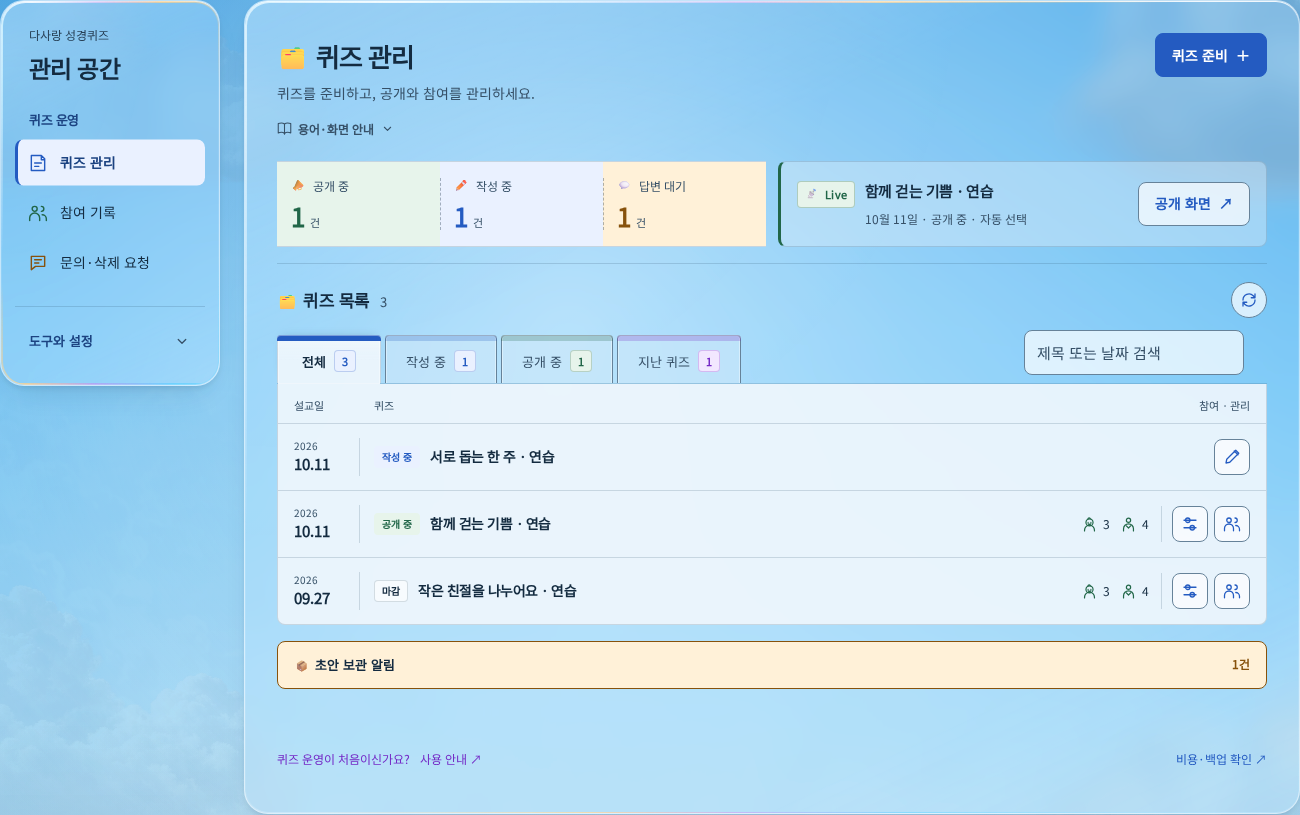
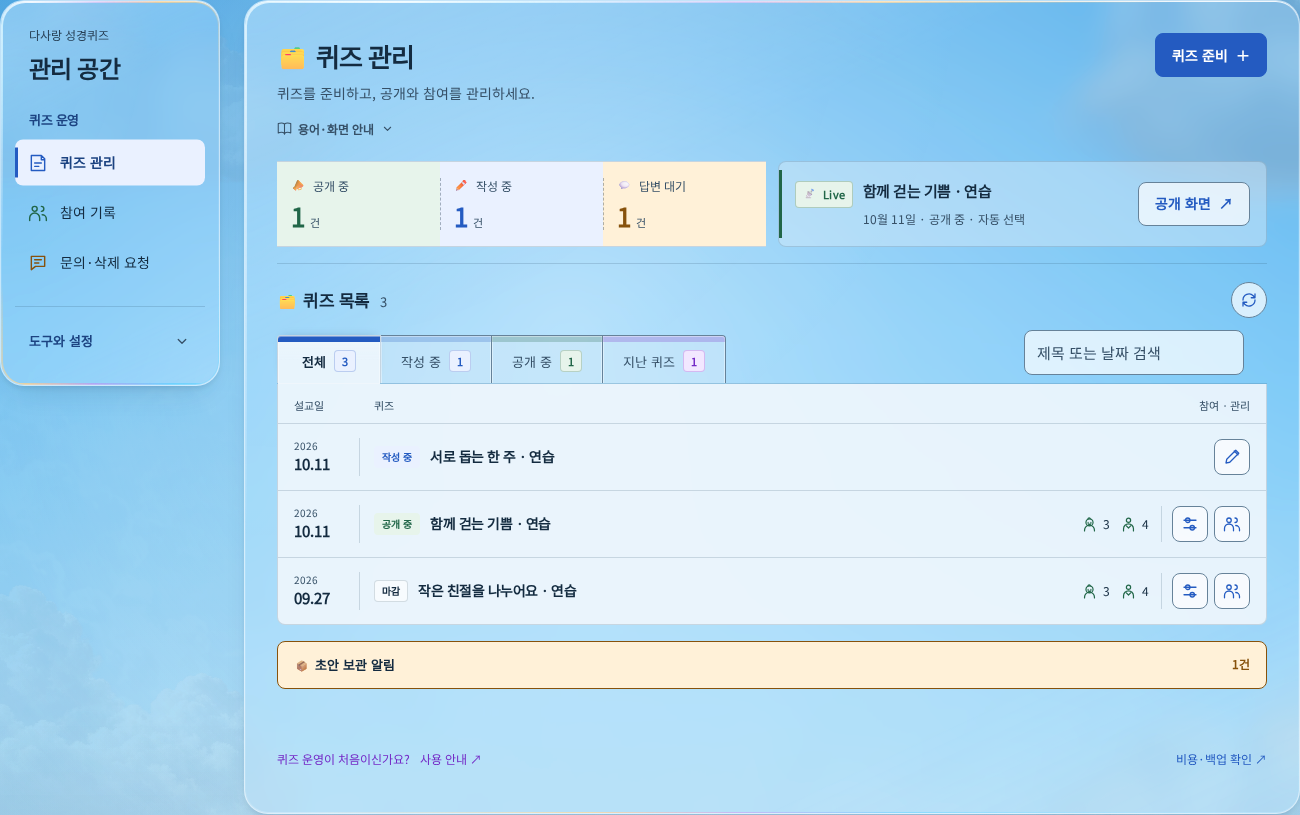
Join admin category tabs and straighten accent edges

Changed region(s): [[0.2154, 0.3988, 0.5846, 0.4601], [0.5846, 0.2147, 0.8, 0.2761]]

diff --git a/docs/design/phase-9/admin-boards/review.html b/docs/design/phase-9/admin-boards/review.html
@@ -7,13 +7,13 @@ body{margin:0;background:#eaf4fa;color:#17334a;font:15px/1.7 system-ui,sans-seri
 .themes{display:flex;gap:6px;margin:18px 0}.themes button{min-height:40px;padding:8px 14px;border:1px solid #8baabe;border-radius:5px;background:transparent;color:inherit;cursor:pointer;font:inherit}.themes button[aria-pressed=true]{background:#245ac1;color:white;border-color:#245ac1}.themes button:focus-visible{outline:3px solid #245ac1;outline-offset:3px}body[data-preview=night]{background:#152839;color:#eaf2fa}body[data-preview=night] a{color:#acc8ff}body[data-preview=night] small{color:#c0d2e6}</style>
 <main>
 <h1>관리자 실제 화면과 생성 시안</h1>
-<p>2026년 10월 14일 적용 화면입니다. 본문에 붙은 입체적인 인덱스, 점선으로 나눈 현황판, 콘텐츠 창과 투명도를 맞춘 사이드바를 적용했습니다. 실제 React UI에 연습 자료를 표시해 촬영했으며, 이미지를 누르면 원본을 크게 볼 수 있습니다.</p>
+<p>2026년 10월 14일 적용 화면입니다. 카테고리끼리 맞닿은 인덱스와 탭 안쪽의 상단 강조선을 적용했습니다. 사이드바와 Live의 왼쪽 표시는 끝까지 두께가 같은 직선입니다. 실제 React UI에 연습 자료를 표시해 촬영했으며, 이미지를 누르면 원본을 크게 볼 수 있습니다.</p>
 <nav aria-label="실제 관리자 화면"><a href="/admin">퀴즈 관리 열기</a><a href="/admin/submissions">참여 기록 열기</a><a href="/admin/privacy-requests">문의·삭제 요청 열기</a></nav>
 <div class="themes" role="group" aria-label="실제 화면 시간대"><button type="button" data-preview-time="day" aria-pressed="true">☀ 낮 화면</button><button type="button" data-preview-time="night" aria-pressed="false">☾ 밤 화면</button></div>
 <p>낮·밤 버튼으로 실제 화면을 바꿔 볼 수 있습니다. 기존 생성 시안 두 장은 낮 배경을 유지합니다.</p>
-<section><h2>퀴즈 관리</h2><p>현황과 Live의 5:5 비율과 세 가지 바탕색을 유지했습니다. 현황판은 각진 모서리·위아래 선·점선 구분을 사용합니다. 인덱스는 호버해도 본문에서 떨어지지 않으며, 넓은 상단 색 띠와 얇은 반사·그림자로 입체감을 줍니다. 왼쪽 메뉴도 콘텐츠 창과 같은 투명도로 볼 수 있습니다.</p><figure class="quiz"><figcaption>실제 화면 · 연습 자료</figcaption><a href="quiz-actual.png"><img data-screenshot-day="quiz-actual.png" data-screenshot-night="quiz-night.png" src="quiz-actual.png" alt="실제 퀴즈 관리와 투명한 사이드바: 점선 현황판과 본문에 붙은 입체 인덱스"></a></figure></section>
+<section><h2>퀴즈 관리</h2><p>현황과 Live의 5:5 비율과 세 가지 바탕색을 유지했습니다. 현황판은 각진 모서리·위아래 선·점선 구분을 사용합니다. 인덱스끼리 틈 없이 붙고, 호버해도 본문에서 떨어지지 않습니다. 탭 상단 강조선은 영역 밖으로 나오지 않으며 얇은 반사·그림자로 입체감을 줍니다. 왼쪽 메뉴도 콘텐츠 창과 같은 투명도로 볼 수 있습니다.</p><figure class="quiz"><figcaption>실제 화면 · 연습 자료</figcaption><a href="quiz-actual.png"><img data-screenshot-day="quiz-actual.png" data-screenshot-night="quiz-night.png" src="quiz-actual.png" alt="실제 퀴즈 관리와 투명한 사이드바: 직선 선택 표시와 틈 없이 맞닿은 인덱스"></a></figure></section>
 <section><h2>참여 기록</h2><p>행을 펼치면 왼쪽에는 답안과 코멘트, 오른쪽에는 처리 폼이 나타납니다. 점수와 상태를 작은 박스로 구분하고, 실제 제출값은 입력한 칸을 파랑·빈칸을 호박색으로 표시합니다.</p><div class="compare"><figure><figcaption>실제 화면 · 연습 자료</figcaption><a href="submissions-actual.png"><img data-screenshot-day="submissions-actual.png" data-screenshot-night="submissions-night.png" src="submissions-actual.png" alt="실제 참여 기록: 한 행을 펼친 답안과 관리 폼, 나머지 짧은 행"></a></figure><figure><figcaption>기존 생성 시안 · 배치 참고</figcaption><a href="submissions-reference.png"><img src="submissions-reference.png" alt="참여 기록의 기존 생성 시안"></a></figure></div></section>
-<section><h2>문의·삭제 요청</h2><p>카테고리와 목록이 시안처럼 같은 바탕으로 이어집니다. 접힌 행에는 이름·분류·상태·날짜와 한 줄 미리보기가 보입니다. 펼치면 전체 원문과 상태·답변 폼을 확인할 수 있습니다.</p><div class="compare"><figure><figcaption>실제 화면 · 연습 자료</figcaption><a href="inquiries-actual.png"><img data-screenshot-day="inquiries-actual.png" data-screenshot-night="inquiries-night.png" src="inquiries-actual.png" alt="실제 문의 게시판: 펼친 요청의 상태 선택과 답변 입력, 접힌 나머지 요청"></a></figure><figure><figcaption>기존 생성 시안 · 배치 참고</figcaption><a href="inquiries-reference.png"><img src="inquiries-reference.png" alt="문의 게시판의 기존 생성 시안"></a></figure></div></section>
+<section><h2>문의·삭제 요청</h2><p>카테고리끼리 틈 없이 맞닿고, 선택한 카테고리와 목록이 같은 바탕으로 이어집니다. 접힌 행에는 이름·분류·상태·날짜와 한 줄 미리보기가 보입니다. 펼치면 전체 원문과 상태·답변 폼을 확인할 수 있습니다.</p><div class="compare"><figure><figcaption>실제 화면 · 연습 자료</figcaption><a href="inquiries-actual.png"><img data-screenshot-day="inquiries-actual.png" data-screenshot-night="inquiries-night.png" src="inquiries-actual.png" alt="실제 문의 게시판: 펼친 요청의 상태 선택과 답변 입력, 접힌 나머지 요청"></a></figure><figure><figcaption>기존 생성 시안 · 배치 참고</figcaption><a href="inquiries-reference.png"><img src="inquiries-reference.png" alt="문의 게시판의 기존 생성 시안"></a></figure></div></section>
 <small>기존 생성 이미지는 재사용했습니다. 실제 화면 이미지에는 개인 자료나 실제 운영 답안을 포함하지 않았습니다.</small>
 </main>
 <script>

diff --git a/src/components/admin-list-tools.module.css b/src/components/admin-list-tools.module.css
@@ -2,9 +2,15 @@
 .toolbar { display: flex; flex-wrap: wrap; align-items: end; justify-content: space-between; gap: 8px 16px; border-bottom: 1px solid var(--admin-board-border,var(--line)); min-width: 0; }
 .indexedPanel { min-width: 0; border: 1px solid var(--admin-board-border,var(--line)); border-top: 0; border-radius: 0 0 8px 8px; background: var(--admin-board-surface,var(--glass-solid)); overflow: clip; }
 .indexedPanel > p { margin: 0; padding: 16px; }
-.filters { display: flex; flex-wrap: wrap; align-items: end; gap: 4px; padding-top: 4px; }
-.filters button { position: relative; display: inline-flex; align-items: center; justify-content: center; gap: 8px; min-width: 104px; min-height: 48px; padding: 12px 20px 9px; border: 1px solid var(--control-border); border-bottom: 0; border-radius: 4px 4px 0 0; background: var(--glass-soft); color: var(--muted); font-size: 13px; line-height: 1.5; box-shadow: inset 1px 0 0 var(--index-edge-light), inset -1px 0 0 var(--index-edge-light); transition: background-color .18s ease, box-shadow .18s ease; }
-.filters button::before { content: ''; position: absolute; inset: -1px -1px auto; height: 6px; border-radius: 4px 4px 0 0; background: color-mix(in srgb,var(--admin-tone) 24%,transparent); box-shadow: inset 0 1px 0 var(--index-edge-light); transition: background-color .18s ease; }
+.filters { display: flex; flex-wrap: wrap; align-items: end; gap: 0; padding-top: 4px; }
+.filters button { position: relative; display: inline-flex; align-items: center; justify-content: center; gap: 8px; min-width: 104px; min-height: 48px; padding: 12px 20px 9px; border: 1px solid var(--control-border); border-bottom: 0; border-radius: 0; background: var(--glass-soft); color: var(--muted); font-size: 13px; line-height: 1.5; box-shadow: inset 1px 0 0 var(--index-edge-light), inset -1px 0 0 var(--index-edge-light); transition: background-color .18s ease, box-shadow .18s ease; }
+/* Adjacent folders share one divider; only the outer ends have rounded corners. */
+.filters button + button { border-left: 0; }
+.filters button:first-child { border-top-left-radius: 4px; }
+.filters button:last-child { border-top-right-radius: 4px; }
+.filters button::before { content: ''; position: absolute; inset: 0 0 auto; height: 6px; background: color-mix(in srgb,var(--admin-tone) 24%,transparent); box-shadow: inset 0 1px 0 var(--index-edge-light); transition: background-color .18s ease; }
+.filters button:first-child::before { border-top-left-radius: 3px; }
+.filters button:last-child::before { border-top-right-radius: 3px; }
 .filters button[aria-pressed=true] { z-index: 1; background-color: var(--admin-board-surface,var(--glass-solid)); background-image: linear-gradient(to bottom,color-mix(in srgb,var(--glass-highlight) 35%,transparent),transparent 24px); color: var(--ink); font-weight: 600; border-color: var(--admin-board-border,var(--line)); box-shadow: inset 1px 0 0 var(--index-edge-light), inset -1px 0 0 var(--index-edge-light), 0 -4px 9px -6px var(--glass-shadow); }
 .filters button[aria-pressed=true]::before { background: var(--admin-tone); }
 /* Cover only the shared baseline, leaving the selected folder open into its contents. */
@@ -19,7 +25,7 @@
 .iconControl svg { display: block; width: 18px; height: 18px; flex: 0 0 18px; }
 @media (pointer: coarse) { :global(.sky-app:not(.home-shell) .admin-main) .iconControl:global(.action-button) { --admin-icon-size: 44px; } }
 @media (max-width: 1200px) { .controls:has(input) { width: 100%; order: -1; } }
-@media (max-width: 600px) { .toolbar { gap: 8px; } .filters { gap: 3px; } .filters button { min-width: 0; padding-inline: 7px; gap: 4px; font-size: 12px; } .filters span { min-width: 20px; min-height: 20px; padding-inline: 4px; } }
+@media (max-width: 600px) { .toolbar { gap: 8px; } .filters button { min-width: 0; padding-inline: 7px; gap: 4px; font-size: 12px; } .filters span { min-width: 20px; min-height: 20px; padding-inline: 4px; } }
 @media (prefers-reduced-motion: reduce) { .filters button, .filters button::before { transition: none; } }
 @media (forced-colors: active) { .filters button[aria-pressed=true] { border-color: Highlight; color: Highlight; } .filters button[aria-pressed=true]::before { background: Highlight; } }
 

diff --git a/src/features/admin-weekly/dashboard.module.css b/src/features/admin-weekly/dashboard.module.css
@@ -9,7 +9,8 @@
 .metricValue { display: inline-flex; align-items: baseline; gap: 5px; line-height: 1.2; color: var(--admin-tone); }
 .metricValue strong { font-size: 26px; font-weight: 600; font-variant-numeric: tabular-nums; }
 .metricValue small { color: var(--muted); font-size: 11px; }
-.featured { display: flex; min-width: 0; align-items: center; gap: 12px; padding: 12px 16px; border: 1px solid var(--line); border-left: 3px solid var(--ui-success); border-radius: 8px; background: var(--glass-soft); }
+.featured { position: relative; display: flex; min-width: 0; align-items: center; gap: 12px; padding: 12px 16px; border: 1px solid var(--line); border-radius: 8px; background: var(--glass-soft); }
+.featured::before { content: ''; position: absolute; inset: 8px auto 8px 0; border-left: 3px solid var(--ui-success); pointer-events: none; }
 .featuredCopy { flex: 1; display: grid; grid-template-columns: auto minmax(0,1fr); align-items: baseline; column-gap: 10px; min-width: 0; }
 .caption { display: inline-flex; justify-self: start; align-items: center; gap: 3px; padding: 3px 7px; border: 1px solid color-mix(in srgb,var(--ui-success) 28%,transparent); border-radius: 4px; color: var(--ui-success); background: var(--ui-success-bg); font-size: 11px; font-weight: 700; letter-spacing: .02em; }
 :global(.sky-app:not(.home-shell) .admin-main) .featured h3 { margin: 0; font-family: 'Noto Sans KR',sans-serif; font-size: 15px; font-weight: 600; line-height: 1.7; overflow-wrap: anywhere; }

diff --git a/src/features/admin-weekly/admin-navigation.module.css b/src/features/admin-weekly/admin-navigation.module.css
@@ -13,7 +13,9 @@
 .nav svg { width: 20px; height: 20px; flex: 0 0 20px; }
 /* A flat selection shape follows the pointer or keyboard focus without a glass lens. */
 .menu nav { position: relative; isolation: isolate; }
-.highlight { position: absolute; top: 0; left: 0; pointer-events: none; z-index: -1; border-radius: 8px; background: var(--ui-action-bg); border-left: 3px solid var(--ui-action); transition: transform .2s ease-out, width .2s ease-out, height .2s ease-out; }
+.highlight { position: absolute; top: 0; left: 0; pointer-events: none; z-index: -1; border-radius: 8px; background: var(--ui-action-bg); transition: transform .2s ease-out, width .2s ease-out, height .2s ease-out; }
+/* Keep the accent straight and constant-width, independent of the rounded background. */
+.highlight::before { content: ''; position: absolute; inset: 8px auto 8px 0; border-left: 3px solid var(--ui-action); }
 .nav a { position: relative; }
 .sidebar .nav a[aria-current=page] { color: var(--nav-action-ink); font-weight: 700; }
 .nav a:is(:hover,:focus-visible) { color: var(--nav-action-ink); }
@@ -42,5 +44,6 @@
  .sidebar:global(.glass) { background: Canvas; color: CanvasText; }
  .sidebar .nav a[aria-current=page] { color: Highlight; background: Canvas; outline: 2px solid Highlight; outline-offset: -2px; }
  .highlight { background: Canvas; border: 2px solid Highlight; }
+ .highlight::before { display: none; }
  .sidebar .groupTitle, .settings > summary { color: CanvasText; }
 }

diff --git a/tests/e2e/admin-glass.spec.ts b/tests/e2e/admin-glass.spec.ts
@@ -62,7 +62,11 @@ test("admin menus group tasks, use a flat moving highlight and use compact share
     await target.hover();
     await expect(current).toHaveAttribute("aria-current", "page");
     await expect(navigation.locator('.glass-indicator, [data-glass-convex]')).toHaveCount(0);
-    await expect(highlight).toHaveCSS("border-left-width", "3px");
+    const accent = await highlight.evaluate(node => {
+      const style = getComputedStyle(node, "::before");
+      return { width: style.borderLeftWidth, radius: style.borderRadius };
+    });
+    expect(accent).toEqual({ width: "3px", radius: "0px" });
     await expect.poll(async () => {
       const a = await target.boundingBox(), b = await highlight.boundingBox();
       return a && b ? Math.abs(a.y - b.y) : 999;

diff --git a/docs/HANDOFF.md b/docs/HANDOFF.md
@@ -2,18 +2,18 @@
 
 ## 현재 작업과 Git
 
-**P9-23 붙어 있는 입체 인덱스·점선 현황·투명 사이드바 — 로컬 완료.** `/home/onegem/work/bibleQuiz`, main `063a310` / clean에서 재개했다. 이번 커밋 제목은 `Keep admin indexes attached and refine transparent surfaces`다. 정확한 해시와 작업 폴더는 `git log -1`·`git status --short`로 확인한다. 후속 보정은 같은 P9-23에서 처리한다.
+**P9-23 맞닿은 인덱스·직선 강조선 — 로컬 완료.** `/home/onegem/work/bibleQuiz`, main `59529fb` / clean에서 재개했다. 이번 커밋 제목은 `Join admin category tabs and straighten accent edges`다. 정확한 해시와 작업 폴더는 `git log -1`·`git status --short`로 확인한다. 후속 보정은 같은 P9-23에서 처리한다.
 
 ## 변경과 검사
 
-- `admin-list-tools.module.css`: 탭의 위치 이동을 모두 없애고6px 상단 색 띠·넓은 PC 탭·얇은 반사/그림자를 적용했다. 검색은1200px 이하에서 탭 위에 배치한다. 모바일 한 줄 탭과 키보드 전환을 유지한다.
-- `dashboard.module.css`: 현황은 직각·위아래 선만 사용하며 가운데는 위아래 여백이 있는 점선이다.5:5·세 의미색·전체 호버는 유지한다.
-- `admin-navigation.module.css`: 사이드바를 콘텐츠 창과 같은 맑은 유리로 바꾸고 작은 글자 대비를 보완했다. 기존 메뉴·아이콘 역할색·선택 받침·모바일 접기를 유지한다.
-- 관련 E2E14건 최초13통과·1실패. 모바일 호버 시 자동 스크롤을 이동으로 오인한 검사만 상대 간격 기준으로 수정했으며 해당 PC/모바일2건 통과. 최종 lint/typecheck·합성 캡처1건 통과. 실제 네 시간대·1440/390/320px36상태, 현황12개 호버·중간 폭6종·감소/강제 색상4상태를 확인했다. 반사/글자 최종 보정 후84개 탭 호버·12개 사이드바 상태에서도 연결/넘침/오류/쓰기 문제0. 작은 메뉴 글자 표본 대비 최저4.68:1이며 전체 앱 인증과 구별한다.
-- 퀴즈/문의 비교용 낮/밤4장과 설명용2장이 변경됐다. 퀴즈 비교 화면에는 사이드바까지 포함한다. 참여/나머지 설명 자산·기존 생성 시안은 보존한다. PNG8종 HTTP200/디코딩·확대 링크·낮/밤 전환·320px 검사를 사용자 기기 표시와 구별한다.
-- [현재 기록](work/P9-23.md#붙어-있는-입체-인덱스점선-현황투명-사이드바), ignored `.wrangler/releases/p9-23/attached-tabs-*`. 최종 관련 파일·DESIGN/명세/결정/상태/자산 문서를 검토해 로컬 커밋한다. 이번에는 build/전체check/전체E2E·Firefox/Safari·실기기/화면 읽기 프로그램을 반복하지 않았다.
+- `admin-list-tools.module.css`: PC/모바일 탭 간격을0으로 바꾸고 중간 굴곡·중복 테두리를 없앴다. 양 끝만4px 모서리를 사용한다. ‘탭 상단 강조선’은 음수 위치 없이 안쪽에6px 높이로 채운다. 퀴즈·문의는 같은 공통 컴포넌트를 사용한다.
+- `admin-navigation.module.css`·`dashboard.module.css`: 둥근 배경과 왼쪽 색상 선을 분리했다. 위아래8px를 비운3px 직선이며 끝까지 두께가 같다. 앞으로 둥근 모서리를 따라 가늘어지는 한쪽 강조선을 쓰지 않는 디자인 규칙을 반영했다.
+- 기존 투명도·네 시간대 의미색·현황/Live5:5·점선·선택 받침 이동·모바일/키보드·검색/필터·입력 보존은 유지한다.
+- 관련 E2E14건(Chromium PC/모바일)·lint/typecheck·합성 캡처1건 모두 첫 실행에 통과했다. 실제5173의 네 시간대·1440/390/320px24상태,84개 탭 호버/키보드 선택, 사이드바/Live12상태와 투명도 감소/강제 색상6상태에서 틈·돌출·넘침·페이지 오류·API 쓰기0을 확인했다.
+- 실제 비교용 퀴즈/문의 낮·밤4장과 설명용 dashboard/privacy2장이 바뀌었다. 참여·나머지 설명 자산·기존 생성 시안은 보존한다. PNG8종 HTTP200/디코딩·확대 링크·낮/밤 전환·320px 확인과 사용자 기기 표시 확인을 구별한다.
+- [현재 기록](work/P9-23.md#맞닿은-인덱스와-일정한-두께의-강조선), ignored `.wrangler/releases/p9-23/flush-tabs-*`. 이번 작은 CSS 후속에서는 build/전체check/전체E2E·Firefox/Safari·실기기/화면 읽기 프로그램을 반복하지 않았다. 최종 문서 링크·diff·실제 파일 상태를 확인해 로컬 커밋한다.
 
-폐기한 접근: 본문과 분리되는 호버 이동, 밤의 과한 이중 반사, 투명도만 바꿔 작은 글자 대비를 떨어뜨리기. 기존 자료·필터/검색·접기/입력·매뉴얼·공통 버튼은 보존한다.
+폐기한 접근: 탭 사이 여백·중간 굴곡, 상단 강조선의 음수 위치, 둥근 배경 테두리에만 굵은 왼쪽 선을 입히기. 기존 기능·자료와 작업 번호를 보존한다.
 
 ## 실행과 다음 첫 작업
 
@@ -24,9 +24,9 @@
 
 5173과 기존 `.wrangler/ui-demo-state` 자료를 유지했다. 꺼지면 루트에서 `pnpm dev:demo --port 5173 --strictPort`. Node24.18.0/pnpm11.14.0. pnpm이 PATH에 없으면 `/home/onegem/.nvm/versions/node/v24.18.0/bin`을 현재 PATH에만 추가한다. E2E는 별도4173 격리 서버이며 동시에 실행하지 않는다. [촬영 재현](design/phase-9/admin-guide/README.md).
 
-도구는 검증된 `/bin/bash`, `login:false`, 명시 workdir, `require_escalated` 승인 검토 경로를 쓴다. 시작 전 ENOENT를 WSL 단절로 판단하거나 승인 거부를 우회하지 않는다. 이미지는 확인된HTTP/첨부로 보여주며 WSL 경로 Markdown만 보내지 않는다.
+도구는 검증된 `/bin/bash`, `login:false`, 명시 workdir, `require_escalated` 승인 검토 경로를 쓴다. 시작 전 ENOENT를 WSL 단절로 판단하거나 승인 거부를 우회하지 않는다. 이미지는 확인된HTTP/첨부로 보여주며 WSL 경로 Markdown만 보내지 않는다. Python 기본 환경에 Pillow가 없으므로 이미지 검사에 브라우저/기존 도구를 사용하고 새 의존성은 설치하지 않는다.
 
-시작 Pro 잔여81% × 사용자 지정10 =810%, 별도5시간 창 없음. 다음 구현 전 사용량을 확인한다. 읽기 순서: AGENTS → PROJECT_CONTEXT → DECISIONS → STATUS → HANDOFF → implementation 관련 명세 → P9-23 → Git 상태/diff/log.
+시작 Pro 잔여80% × 사용자 지정10 =800%, 별도5시간 창 없음. 다음 구현 전 사용량을 확인한다. 읽기 순서: AGENTS → PROJECT_CONTEXT → DECISIONS → STATUS → HANDOFF → implementation 관련 명세 → P9-23 → Git 상태/diff/log.
 
 push/배포·실제 자료 쓰기·AI 호출·새 의존성은 없다. Preview는 P9-14 소스 `0fbde84` / version `cd6efb0e-2c05-4401-b0bf-692bdf18c5b1`, Production은 P9-04 소스 `37b7254` / version `7aea6843-5288-42da-9bef-bc673e1d9dfe` 그대로다.
 

diff --git a/docs/design/phase-9/admin-boards/README.md b/docs/design/phase-9/admin-boards/README.md
@@ -10,20 +10,20 @@ HTTP 확인 주소: `http://localhost:5173/docs/design/phase-9/admin-boards/subm
 
 2026-10-14 사용자 재현 요청에 따라 실제 `/admin`, `/admin/submissions`, `/admin/privacy-requests`를 다시 적용했다. 기존에는 본문과 도구 버튼이 항상 보였으나 이제 시안처럼 짧은 행 전체를 펼친다. 참여는 답안/관리, 문의는 상태/답변을 좌우로 배치하고 모바일에서는 위아래로 놓는다. 문의의 관련 퀴즈 링크는 행 클릭과 겹치지 않도록 펼친 본문에 둔다.
 
-시안의 개별 행 틈은 사용자의 연속 게시판 요청에 따라 없앴다. 가상 정오답 색·인물 사진은 만들지 않았고 실제 답안 좌표/입력값과 기존 선 아이콘을 쓴다. 하늘·투명 표면·다섯 의미 색상은 유지한다. 바깥 창은 맑은 유리, 핵심 현황·목록·펼친 내용은 선명한 바탕으로 구분했다. 퀴즈 현황과 Live는 넓은 화면에서5:5다. 세 현황 칸은 초록·파랑·노랑 바탕과 직각 모서리·위아래 선·가운데 점선을 사용하며, Live는 별도 유리 영역으로 구분한다. 퀴즈·문의 인덱스는 호버 때도 본문에 붙어 있고 넓은 상단 색 띠·얇은 반사·그림자를 쓴다. 사이드바도 콘텐츠 창과 같은 투명도를 사용하며 퀴즈 실제 촬영본에 함께 포함한다. 밤 목록은 회청색으로 구분하며 색상 인덱스·작은 점수/입력 여부 박스를 적용했다.66px 퀴즈 행과 모바일 자연 배치를 유지한다.
+시안의 개별 행 틈은 사용자의 연속 게시판 요청에 따라 없앴다. 가상 정오답 색·인물 사진은 만들지 않았고 실제 답안 좌표/입력값과 기존 선 아이콘을 쓴다. 하늘·투명 표면·다섯 의미 색상은 유지한다. 바깥 창은 맑은 유리, 핵심 현황·목록·펼친 내용은 선명한 바탕으로 구분했다. 퀴즈 현황과 Live는 넓은 화면에서5:5다. 세 현황 칸은 초록·파랑·노랑 바탕과 직각 모서리·위아래 선·가운데 점선을 사용하며, Live는 별도 유리 영역으로 구분한다. 퀴즈·문의 인덱스는 호버 때도 본문에 붙어 있고 탭끼리 간격 없이 맞붙고 테두리 안쪽의6px 상단 강조선·얇은 반사·그림자를 쓴다. 사이드바 선택 받침과 Live의 왼쪽 선은 둥근 테두리와 분리한 일정 두께의 직선이다. 사이드바도 콘텐츠 창과 같은 투명도를 사용하며 퀴즈 실제 촬영본에 함께 포함한다. 밤 목록은 회청색으로 구분하며 색상 인덱스·작은 점수/입력 여부 박스를 적용했다.66px 퀴즈 행과 모바일 자연 배치를 유지한다.
 
-적용 진입점은 `AdminBoardHeader`/`AdminListTools`·`AdminRecord`다. 수치·동작은 [디자인 정본](../../../spec/design.md#p9-23-후속--시안에-맞춘-세-게시판), 실제 검사는 [작업 기록](../../../work/P9-23.md#붙어-있는-입체-인덱스점선-현황투명-사이드바)을 따른다.
+적용 진입점은 `AdminBoardHeader`/`AdminListTools`·`AdminRecord`다. 수치·동작은 [디자인 정본](../../../spec/design.md#p9-23-후속--시안에-맞춘-세-게시판), 실제 검사는 [작업 기록](../../../work/P9-23.md#맞닿은-인덱스와-일정한-두께의-강조선)을 따른다.
 
 | 실제 UI 촬영본 | 해상도 | bytes |
 |---|---|---|
-| quiz-actual.png | 1300×815 | 389,371 |
-| quiz-night.png | 1300×815 | 278,421 |
+| quiz-actual.png | 1300×815 | 388,899 |
+| quiz-night.png | 1300×815 | 277,921 |
 | submissions-actual.png | 1056×1118 | 268,345 |
 | submissions-night.png | 1056×1118 | 214,202 |
-| inquiries-actual.png | 1056×919 | 211,057 |
-| inquiries-night.png | 1056×919 | 166,032 |
+| inquiries-actual.png | 1056×919 | 210,701 |
+| inquiries-night.png | 1056×919 | 165,833 |
 
-실제 React UI에 합성 GET 자료만 넣어 촬영했으며 공개 가능한 연습 자산이다. 재현 명령은 [화면 예시 자산](../admin-guide/README.md)을 따른다. 기존 실제5173 자료를 촬영한 내부 검수 증거는 ignored `.wrangler/releases/p9-23/attached-tabs-*`에 별도 보관하며 정적 자산으로 복사하지 않았다.
+실제 React UI에 합성 GET 자료만 넣어 촬영했으며 공개 가능한 연습 자산이다. 재현 명령은 [화면 예시 자산](../admin-guide/README.md)을 따른다. 기존 실제5173 자료를 촬영한 내부 검수 증거는 ignored `.wrangler/releases/p9-23/flush-tabs-*`에 별도 보관하며 정적 자산으로 복사하지 않았다.
 
 생성 원본은 Windows Codex generated_images의 현재 대화 폴더에 그대로 남겼다. 이 경로에는 배포된 AI 결과나 실제 참여자 자료가 들어 있지 않다.
 

diff --git a/docs/work/P9-23.md b/docs/work/P9-23.md
@@ -244,6 +244,18 @@ Git 제외 증거는 `.wrangler/releases/p9-23/editorial/`: `e2e-admin.log`, `e2
 
 증거는 ignored `.wrangler/releases/p9-23/attached-tabs-*`. DESIGN/관련 명세·결정/STATUS/HANDOFF/자산 목록을 갱신하고 로컬 커밋한다. 새 의존성·실제 AI·자료 쓰기·원격 변경·push/배포는 없다. 이번 범위에서 build/전체check/전체E2E·Firefox/Safari·실기기/화면 읽기 프로그램은 반복하지 않았다. 폐기한 접근: 탭을 띄워 본문과 분리하기, 밤의 과한 이중 반사선, 투명도를 높이면서 작은 글자 대비를 그대로 두기, 모바일 스크롤을 탭 이동으로 판단하기.
 
+## 맞닿은 인덱스와 일정한 두께의 강조선
+
+2026-10-14. main `59529fb` / clean에서 같은 P9-23을 재개했다. 실제 경로 `/home/onegem/work/bibleQuiz`, Pro 잔여80% × 사용자 기준10 =800%, 별도5시간 창 없음. 추천 GPT-6.1-sol/medium. 기존 문의 시안의 맞닿은 카테고리를 대조했다.
+
+- 공통 `AdminIndexedBoard`의 PC4px·모바일3px 탭 간격을0으로 바꿨다. 중간 모서리는 직각·경계 한 개, 바깥 양 끝만4px다. ‘탭 상단 강조선’의 음수1px 위치를 없애6px 채움 띠를 테두리 안쪽에 둔다. 선택 탭/본문 연결·호버·검색/필터는 유지한다.
+- 사이드바와 Live의 색상 `border-left`를 둥근 배경에서 분리했다. 위아래8px를 비운3px 직선이며 끝까지 두께가 같다. 관리자 강조선에 둥근 테두리를 따라 가늘어지는 형태를 다시 사용하지 않는 기준을 DESIGN/정본/결정에 기록했다.
+- 관련 Chromium PC/모바일 E2E14건, lint/typecheck, 합성 자료 촬영1건 모두 첫 실행에 통과했다. 기존 선택 받침 검사는 독립된 직선 표시를 확인하도록 갱신했다. 필터/검색·입력 보존·접기·새로고침·메뉴와 키보드 동작을 유지한다.
+- 실제5173의 퀴즈/문의 × 네 시간대 ×1440/390/320px24상태,84개 호버·키보드 선택 조합에서 탭 사이 간격0·강조선 돌출 없음·본문 연결1px 이하를 확인했다. 사이드바/Live의 직선12상태 및 투명도 감소/강제 색상6상태를 포함해 넘침·페이지 오류·API 쓰기0이다. 실제 캡처의 낮/밤·새벽/노을·좁은 화면을 직접 열어 비교했다.
+- 합성 GET 자료로 실제 비교용 낮/밤6장과 설명용3장을 촬영했다. 변경된 자산은 퀴즈/문의 낮·밤4장과 dashboard/privacy2장이다. 참여 촬영본·나머지6개 설명 자산·생성 시안은 그대로다. 비교 페이지의 PNG8종 HTTP200/image/png·디코딩·확대 링크·낮/밤 키보드 전환·320px 넘침 없음을 확인했다. 사용자 기기의 새 이미지 표시 확인과 구별한다.
+
+증거는 ignored `.wrangler/releases/p9-23/flush-tabs-*`. 문서와 자산 정보를 갱신하고 검토한 파일만 로컬 커밋한다. 새 의존성·AI·기존 로컬 자료 쓰기·원격 변경·push/배포는 없다. 작은 CSS 후속 범위이므로 build/전체check/전체E2E·Firefox/Safari·실기기/화면 읽기 프로그램은 반복하지 않았다. 폐기한 접근: 탭 사이 여백과 중간 굴곡, 강조선의 음수 위치, 둥근 배경 테두리에만 굵은 왼쪽 선을 입히기.
+
 ## 한계와 보존
 
 이모지의 모양은 기기의 시스템 글꼴에 따라 달라진다. WSL의 미설치 글꼴로 인한 빈 네모는 캡처에서만 이미 설치된 Windows 글꼴을 읽어 해결했고 앱에 글꼴을 배포하지 않는다. 새 화면 예시는 연습 자료이며 실제 운영 검증 증거가 아니다. 실기기·화면 읽기 프로그램·원격 인증/배포는 이번 검증 범위에 포함하지 않는다. Phase/배포 단위의 전체 필수 검사는 별도 경계에서 수행한다.

diff --git a/docs/STATUS.md b/docs/STATUS.md
@@ -1,12 +1,12 @@
 # 현재 상태
 
-## P9-23 붙어 있는 입체 인덱스·점선 현황·투명 사이드바 — 로컬 완료
+## P9-23 맞닿은 인덱스·직선 강조선 — 로컬 완료
 
-퀴즈·문의 인덱스는 호버해도 본문에 붙어 있고 넓은 상단 색 띠·반사·그림자로 입체감을 준다. 현황은 직각 모서리·위아래 선·가운데 점선을 사용한다. 사이드바도 콘텐츠 창과 같은 투명도로 맞추고 작은 글자 대비를 보완했다.5:5·세 의미색·밤 본문·모바일·기능과 자료는 유지한다. [현재 기준](spec/design.md#p9-23-후속--시안에-맞춘-세-게시판).
+퀴즈·문의 탭 사이 간격과 중간 굴곡을 없애 직접 맞붙였다. ‘탭 상단 강조선’은 테두리 안쪽으로 옮겨 돌출을 제거했다. 사이드바 선택 표시와 Live의 왼쪽 선은 둥근 배경에서 분리한 일정한 두께의 직선이다. 앞으로 같은 모서리 감싸기 디자인을 쓰지 않도록 [정본](spec/design.md#p9-23-후속--시안에-맞춘-세-게시판)에 반영했다. 기존 투명도·색·5:5·기능/자료를 유지한다.
 
-관련 PC/모바일 E2E14건은 최초13통과·스크롤 영향을 오인한 검사1실패 후 탭/본문 상대 간격을 확인하는2건 재실행에서 통과했다. 최종 lint/typecheck·합성 촬영 통과. 네 시간대·PC/320/390px 화면36상태와84개 탭 호버·12개 사이드바 상태에서 연결·기능·글자 대비를 확인했다. 넘침/페이지 오류/자료 쓰기0. [변경·검사·한계](work/P9-23.md#붙어-있는-입체-인덱스점선-현황투명-사이드바).
+관련 PC/모바일 E2E14건·lint/typecheck·합성 촬영1건 모두 통과했다. 실제 네 시간대·1440/390/320px24상태와84개 호버/키보드 선택, 투명도 감소/강제 색상6상태에서 틈·돌출·넘침·페이지 오류·자료 쓰기0을 확인했다. [변경·검사·한계](work/P9-23.md#맞닿은-인덱스와-일정한-두께의-강조선).
 
-[실제 화면과 시안 비교](design/phase-9/admin-boards/review.html)에서 낮/밤 실제 화면을 전환할 수 있다. 합성 연습 자료의 실제 UI6장과 기존 시안2장의 HTTP·디코딩을 확인했다. 사용자 기기 표시·실기기/Safari/화면 읽기 프로그램·원격 반영은 별도다. 이번 후속에서 build/전체check/전체E2E·Firefox는 반복하지 않았다. 새 의존성·AI 호출·push·배포는 없다.
+[실제 화면과 시안 비교](design/phase-9/admin-boards/review.html)의 퀴즈/문의 낮·밤4장과 설명용2장을 갱신했다. 참여·기존 시안은 보존했다. PNG8종 HTTP/디코딩·전환·확대 연결을 확인했으며 사용자 기기 표시와 구별한다. 이번 작은 후속에서 build/전체check/전체E2E·Firefox/Safari·실기기/화면 읽기 프로그램은 반복하지 않았다. 새 의존성·AI 호출·push·배포는 없다.
 
 **현재 P9-23 로컬 완료 · 부모 관리자 이해 돕기 로컬 완료 · 다음 사용자 화면 확인/피드백 · 세션 유지 · 다음 추천 GPT-6.1-sol/medium** — 공통 디자인 안의 세부 보정에 적합하다.
 

diff --git a/DESIGN.md b/DESIGN.md
@@ -20,4 +20,4 @@ P9-23 퀴즈 관리는 촘촘한 안내 구역, 📡 Live, 목록 구분선, 파
 
 퀴즈 목록은 [설교일 게시판과 작은 아이콘](docs/spec/design.md#p9-23-후속--설교일-게시판과-작은-아이콘)을 따른다. 새로고침/정사각형 작업/짧은 말풍선/접기 화살표는 공통 구현에서 고치며 페이지별 복제를 만들지 않는다. 접기 화살표는 제목과 설명을 포함한 영역의 세로 중앙에 놓는다. 이름·문구 필터는 조회 실패 때만 ‘다시 시도’를 표시한다.
 
-퀴즈 관리·참여 기록·문의는 [기존 시안에 맞춘 세 게시판](docs/spec/design.md#p9-23-후속--시안에-맞춘-세-게시판)을 따른다. 바깥 창은 맑은 유리로 두고 현황·목록·펼친 내용에 선명한 바탕을 집중한다. 퀴즈 현황과 Live는 넓은 화면에서5:5다. 현황 세 칸은 초록·파랑·노랑 바탕, 직각 모서리·위아래 선·가운데 점선을 사용한다. 전체 칸 호버를 유지한다. Live는 초록 표식의 투명 영역으로 구분한다. 퀴즈·문의 카테고리는 `AdminIndexedBoard`에서 호버해도 본문에 붙어 있다. 넓은 상단 색 띠와 얇은 반사·그림자로 입체감을 주며 위치 이동은 하지 않는다. 사이드바는 콘텐츠 창과 같은 투명 재질을 사용하고 작은 글자의 대비를 보완한다. 밤 본문의 회청색과 작은 의미색 박스, 고딕 제목·접힌 안내·짧은 행·펼친 본문의 좌우 구분을 유지한다. 관련 퀴즈 링크는 문의 본문 안에 두어 행 펼치기와 충돌하지 않게 한다.
+퀴즈 관리·참여 기록·문의는 [기존 시안에 맞춘 세 게시판](docs/spec/design.md#p9-23-후속--시안에-맞춘-세-게시판)을 따른다. 바깥 창은 맑은 유리로 두고 현황·목록·펼친 내용에 선명한 바탕을 집중한다. 퀴즈 현황과 Live는 넓은 화면에서5:5다. 현황 세 칸은 초록·파랑·노랑 바탕, 직각 모서리·위아래 선·가운데 점선을 사용한다. 전체 칸 호버를 유지한다. Live는 초록 표식의 투명 영역으로 구분한다. 퀴즈·문의 카테고리는 `AdminIndexedBoard`에서 호버해도 본문에 붙어 있다. 탭끼리 간격 없이 맞붙이고, ‘탭 상단 강조선’은 테두리 안쪽에 둔다. 얇은 반사·그림자로 입체감을 주며 위치 이동은 하지 않는다. 사이드바 선택 표시와 Live의 왼쪽 선은 둥근 배경과 분리한 일정한 두께의 직선이다. 앞으로 한쪽 강조선을 둥근 모서리에 둘러 가늘어지게 만드는 디자인은 쓰지 않는다. 사이드바는 콘텐츠 창과 같은 투명 재질을 사용하고 작은 글자의 대비를 보완한다. 밤 본문의 회청색과 작은 의미색 박스, 고딕 제목·접힌 안내·짧은 행·펼친 본문의 좌우 구분을 유지한다. 관련 퀴즈 링크는 문의 본문 안에 두어 행 펼치기와 충돌하지 않게 한다.

diff --git a/docs/design/phase-9/admin-guide/README.md b/docs/design/phase-9/admin-guide/README.md
@@ -2,17 +2,17 @@
 
 P9-23 사용자 요청의 확대 가능한 설명용 이미지다. 새 디자인 시안이 아닌 **현재 React 컴포넌트의 실제 렌더링**이며, `tests/e2e/fixtures/admin-guide.ts`의 가상 연습 자료만 표시한다. 실제 운영의 결과·자료·백업 상태·비용을 캡처하지 않았다. API는 브라우저 안에서 합성 GET으로 응답하고 쓰기는 차단한다. PNG는 `public/images/admin-guide/`에 보존한다.
 
-2026-10-14 P9-23 붙어 있는 입체 인덱스를 반영해 세 게시판을 다시 촬영했다. dashboard/privacy 두 PNG가 변경됐고 나머지6종은 동일하다. 비교 페이지용 퀴즈 촬영본에는 투명 사이드바까지 함께 포함한다. 게시판 예시는 같은 캡처 경로의 `boards` 모드에서 여러 건의 합성 자료로 만들며, 실제 DB를 바꾸지 않는다.
+2026-10-14 P9-23 맞닿은 인덱스와 돌출 없는 상단 강조선을 반영해 세 게시판을 다시 촬영했다. dashboard/privacy 두 PNG가 변경됐고 나머지6종은 동일하다. 비교 페이지용 퀴즈 촬영본에는 투명 사이드바까지 함께 포함한다. 게시판 예시는 같은 캡처 경로의 `boards` 모드에서 여러 건의 합성 자료로 만들며, 실제 DB를 바꾸지 않는다.
 
 퀴즈 목록·설교 정보·요약/난도 검수·발행 후 설정·참여 조치·문의 답변·필터 시험·비용/백업의 8개 설명에 사용한다. 표시 위치/제목/대체 텍스트/설명은 `src/config/admin-screenshots.ts`, 확대 기능은 `src/components/AdminScreenshots.tsx`를 따른다.
 
 | 파일 | 해상도 | 크기(bytes) |
 |---|---|---|
-| dashboard.png | 990 × 364 | 64,830 |
+| dashboard.png | 990 × 364 | 64,518 |
 | filters.png | 990 × 359 | 54,000 |
 | input.png | 990 × 568 | 93,700 |
 | operations.png | 990 × 335 | 46,064 |
-| privacy.png | 988 × 410 | 36,537 |
+| privacy.png | 988 × 410 | 36,541 |
 | review.png | 990 × 794 | 112,457 |
 | settings.png | 990 × 406 | 74,805 |
 | submissions.png | 988 × 484 | 48,650 |
